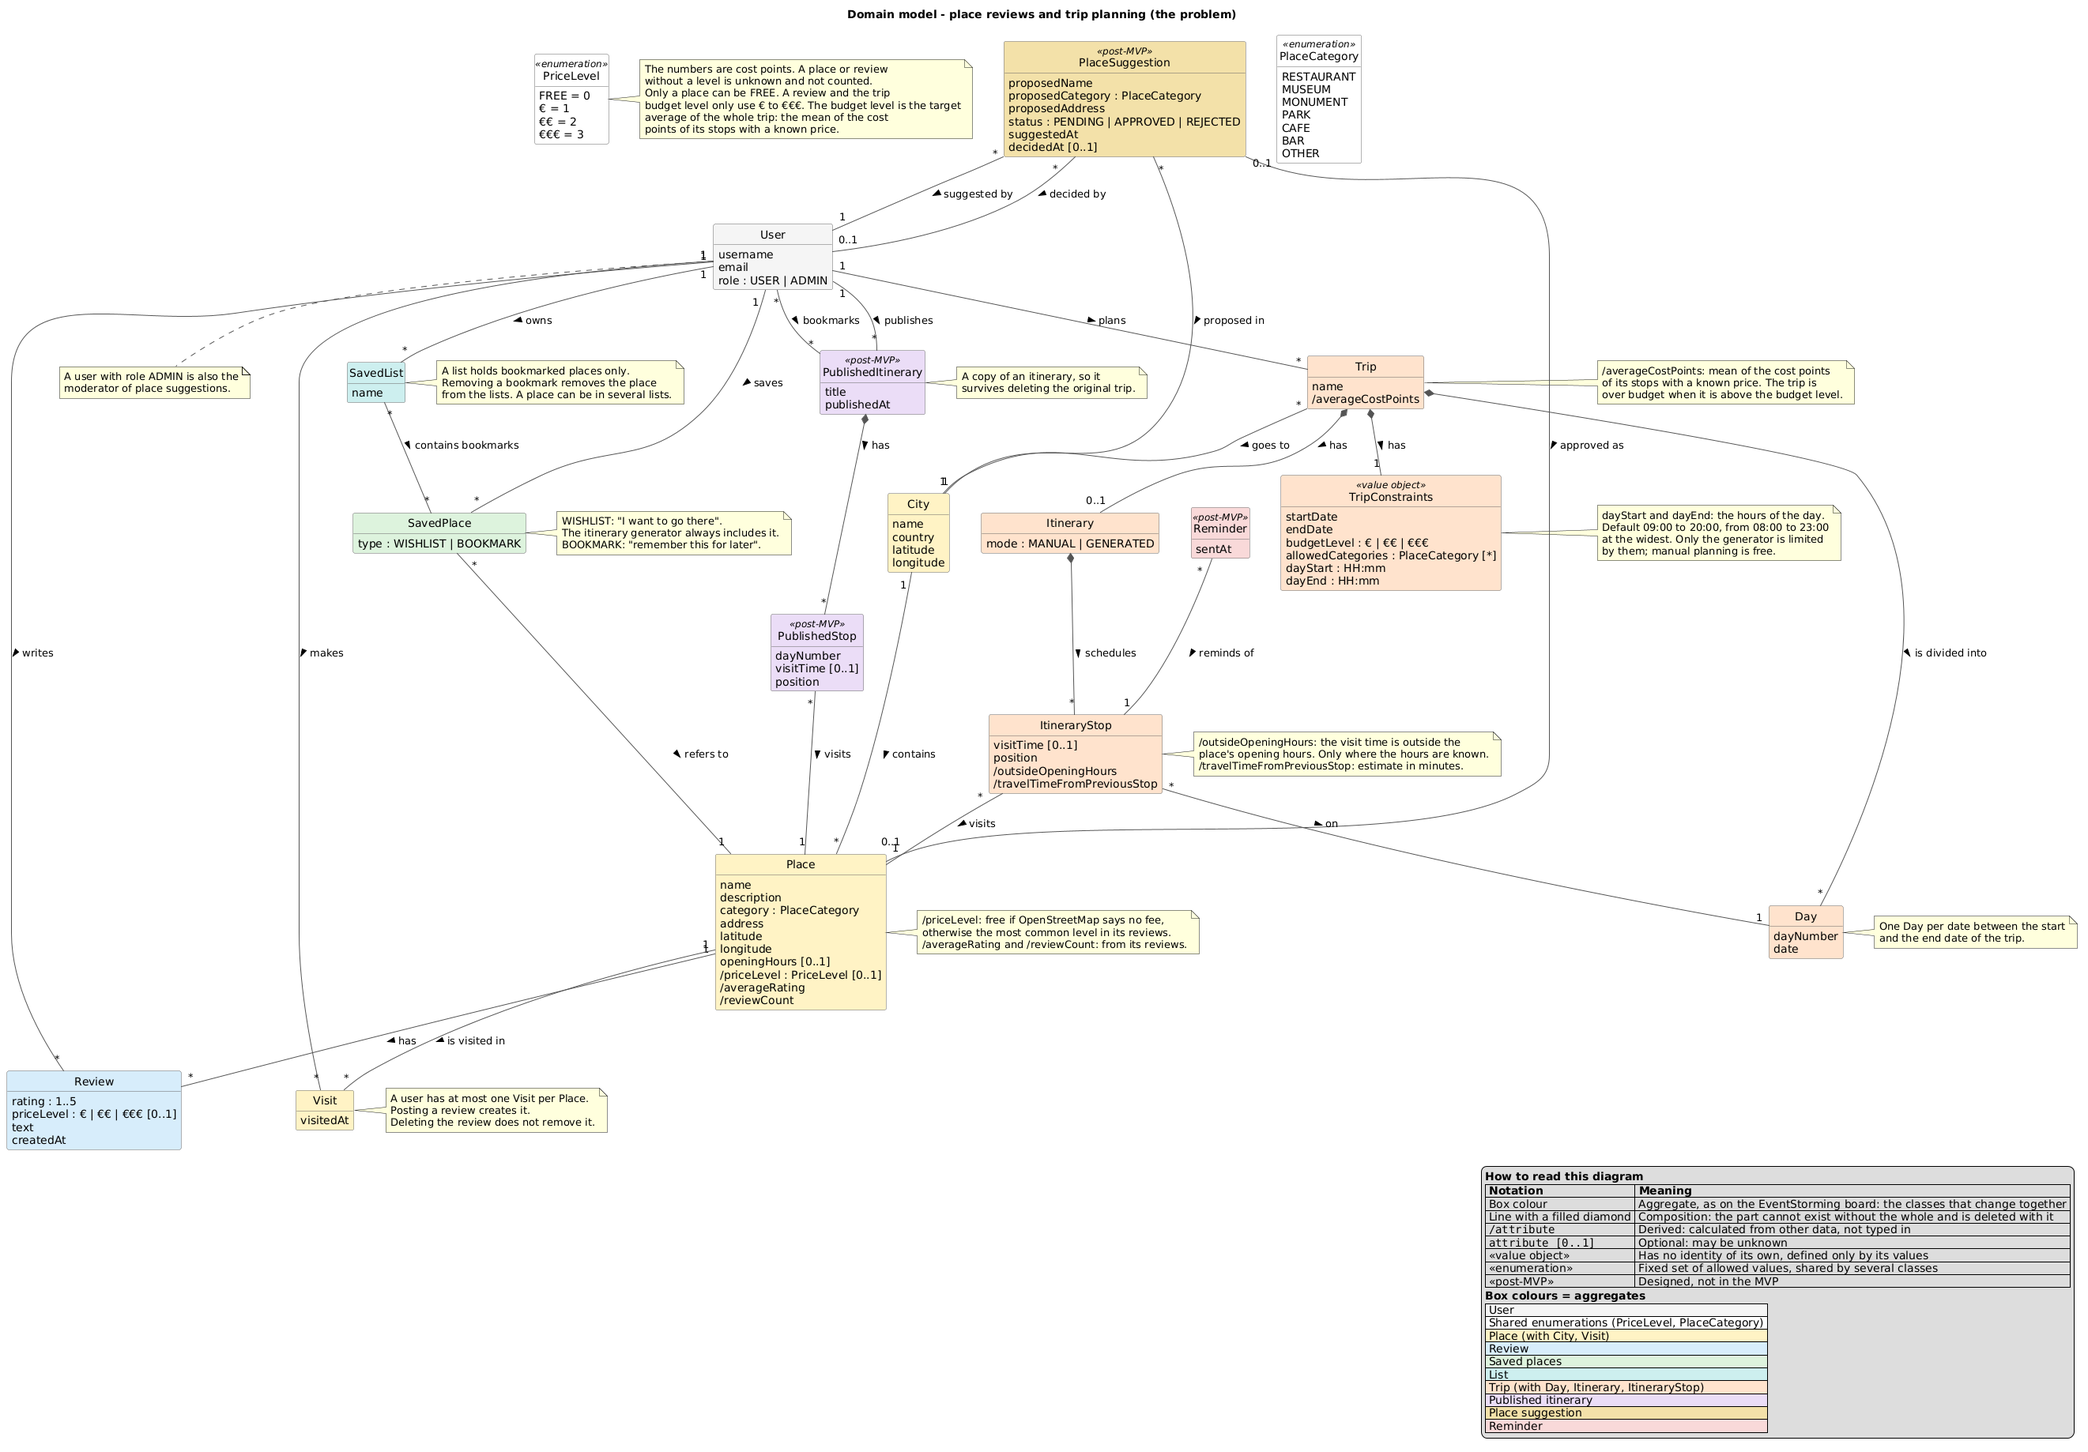
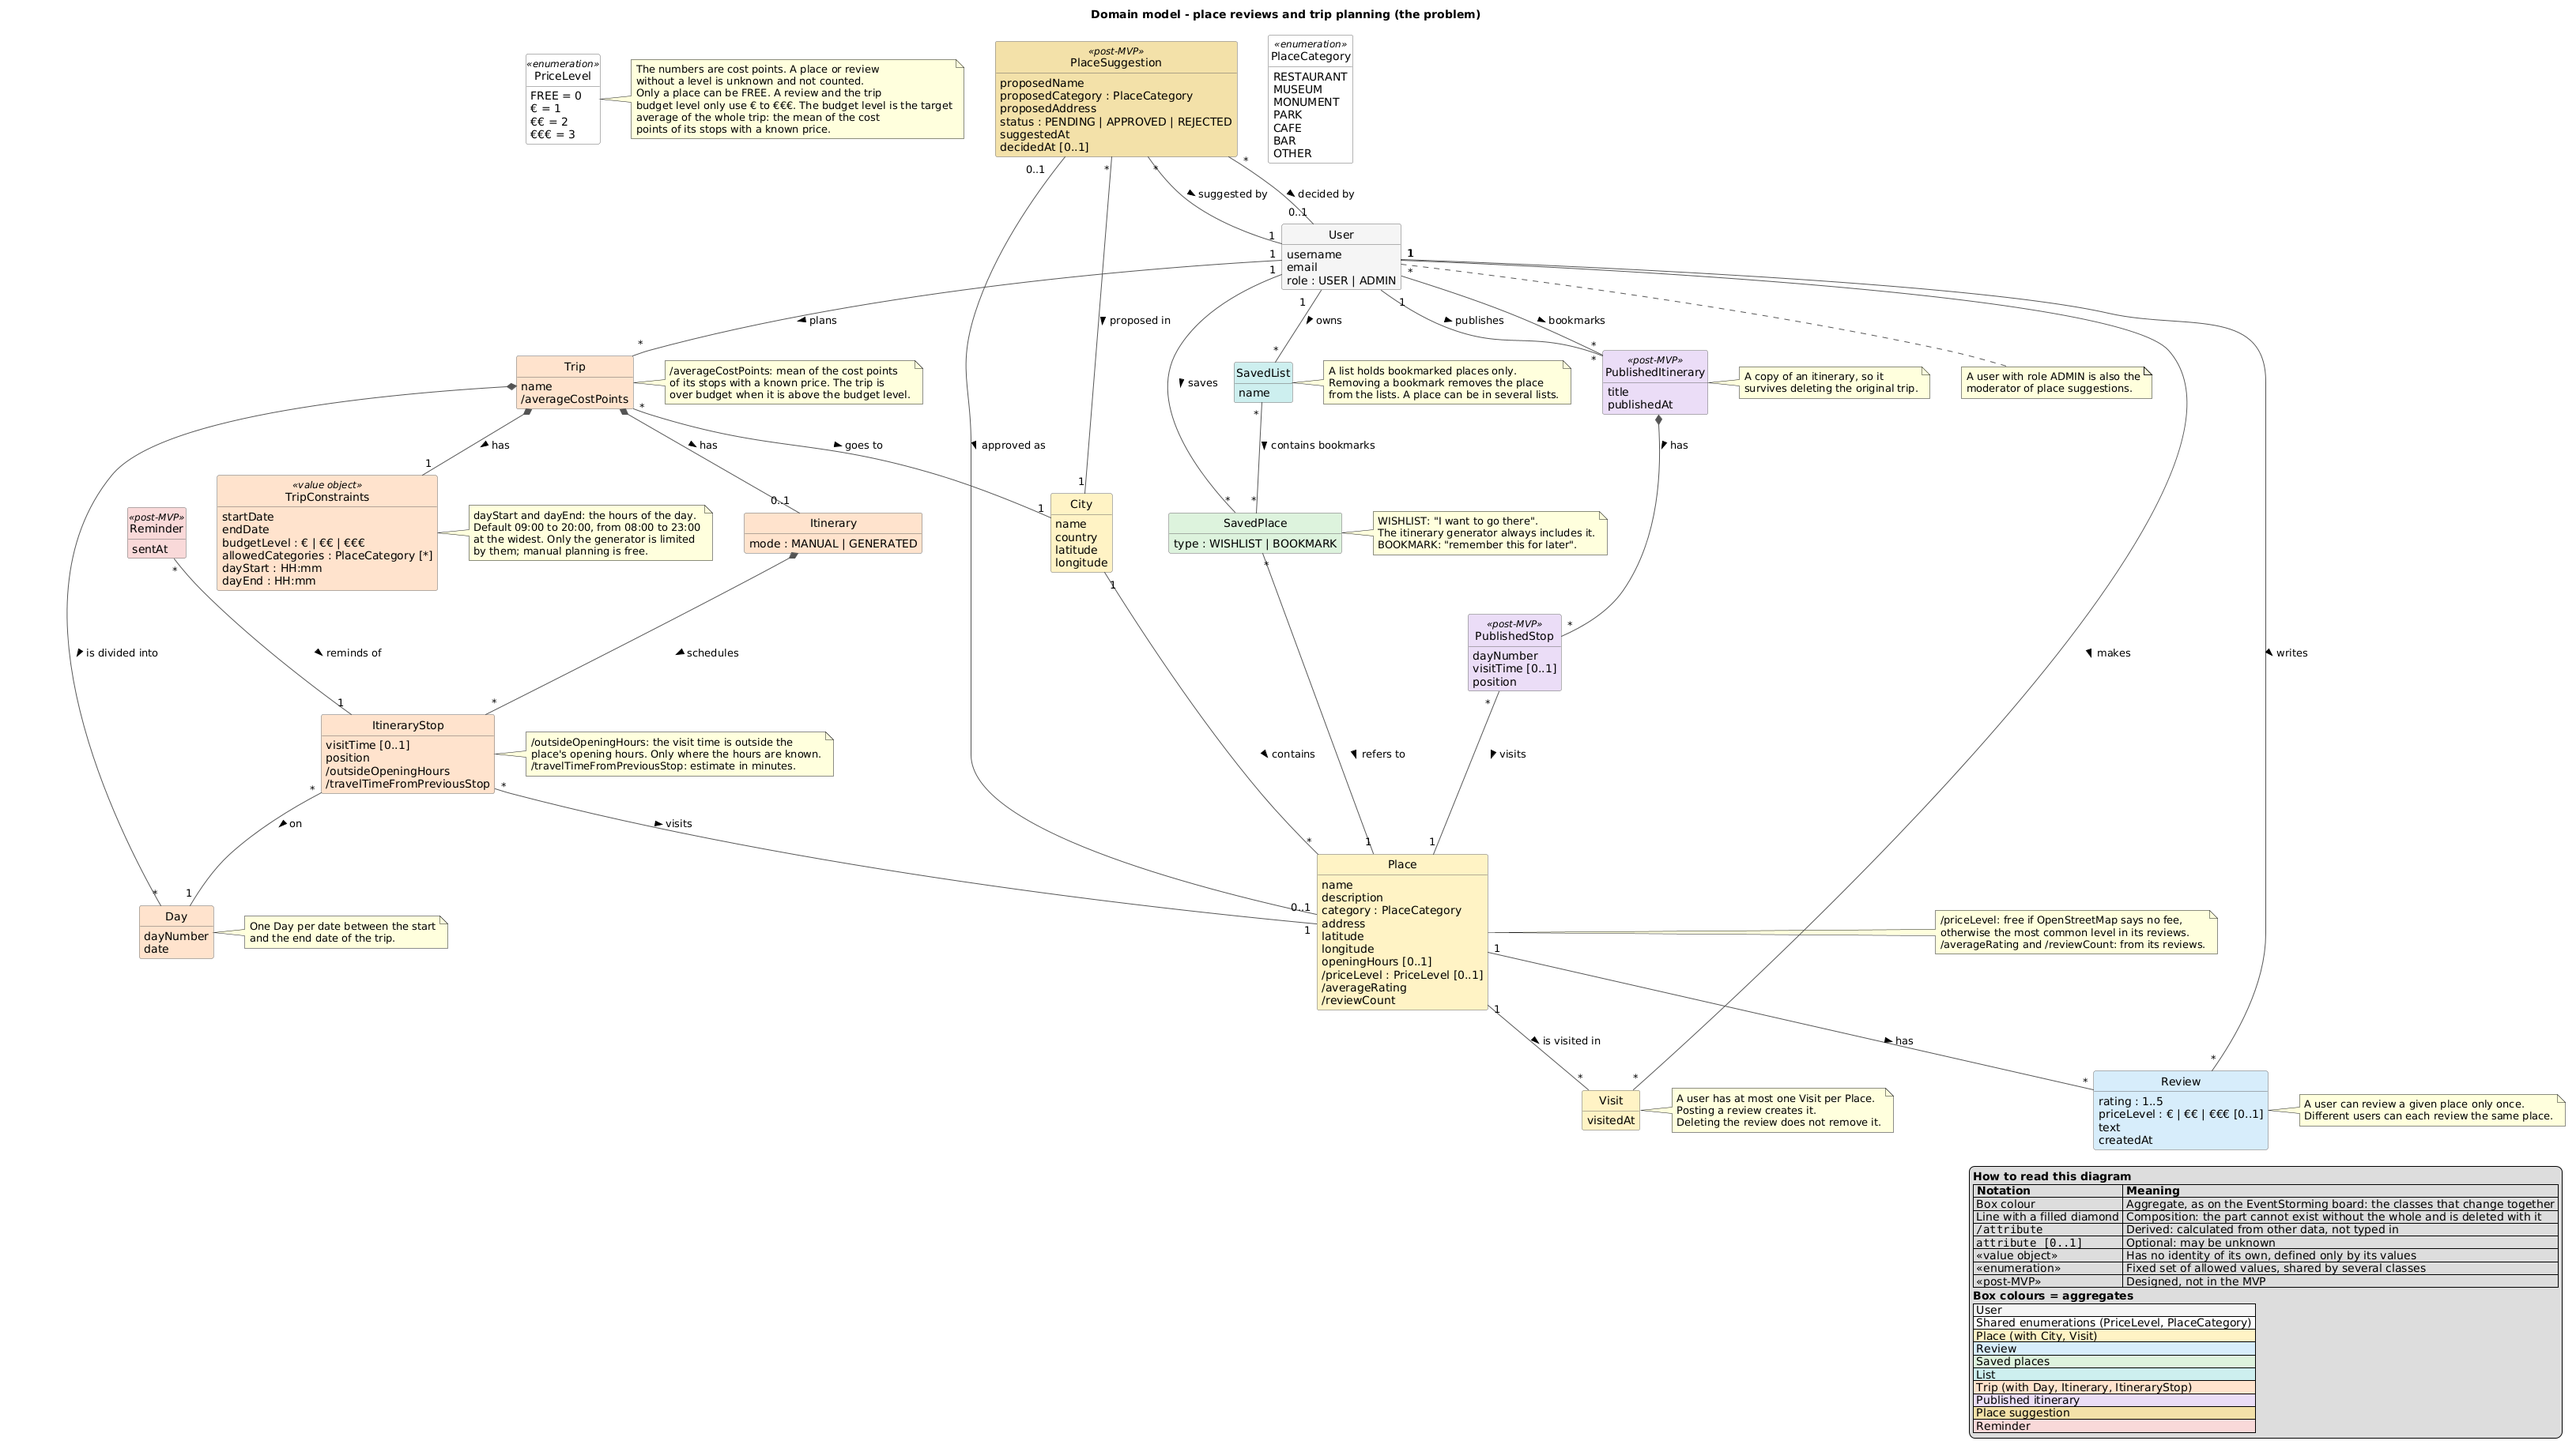
Write down the rule: a user reviews a given place only once
Glossary, design, mvp.md, the domain model and the stories now state it. The prototype seed breaks the rule (2 demo users, up to 9 reviews on a place), so the stories note that the demo data must be fixed before the unique constraint can be added.

diff --git a/docs/user-stories.md b/docs/user-stories.md
@@ -217,6 +217,7 @@ This file is the draft that the GitHub issues are created from. Once the issues 
 
 - Each place's `averageRating`, `reviewCount` and `priceLevel` are calculated from its reviews with the same functions the app uses.
 - Seed passwords are hashed with the same helper as registration.
+- No user reviews the same place twice (the rule of US-C1-01), so the seed needs at least as many demo users as the most-reviewed place has reviews.
 
 **Out of scope**
 
@@ -226,12 +227,16 @@ This file is the draft that the GitHub issues are created from. Once the issues 
 
 - The demo password goes in the README, not in the code of the app.
 - Every city needs enough places and reviews to rank well ([mvp.md](mvp.md) section 4).
+- The prototype seed breaks the one-review rule: it has 2 demo users and up to 9 reviews on one place. On the dev database 20 user and place pairs have more than one review (70 reviews). The unique constraint of US-C1-01 cannot be added until the seed has enough demo users and the databases are cleaned. Prod was seeded with the same script, so it is very likely the same (not checked).
 - The prototype seed also creates Lisbon, Madrid, Rome and London (4 landmarks each, on dev and prod). Remove them from the seed and decide what to do with the rows already in the databases (prod needs the team's approval).
 
 **Issues**
 
 1. **Seed with real hashes and rerunnable** · covers AC3, AC4 · depends on: Registration API
 2. **Enough reviews for every city** · covers AC1, AC2 · depends on: Import the three MVP cities
+3. **Demo users and reviews without duplicates** · covers AC2 · depends on: none
+   - More demo users, each reviewing a place at most once
+   - Clean the existing duplicate reviews on dev and prod (prod needs the team's approval), then recalculate the ratings
 
 ## B3 City search and filters
 
@@ -420,7 +425,7 @@ This file is the draft that the GitHub issues are created from. Once the issues 
 
 - Average rating = mean of all ratings, rounded to one decimal.
 - Place price level = most common price level in its reviews; ties go to the lower level.
-- One review per user and place.
+- A user can review a given place only once (to change an opinion the user edits the review). Different users can each review the same place.
 
 **Out of scope**
 
@@ -428,8 +433,8 @@ This file is the draft that the GitHub issues are created from. Once the issues 
 
 **Issues**
 
-1. **One review per user and place** · covers AC3 · depends on: Session and write-endpoint guard (US-A1-02)
-   - Migration for a unique constraint
+1. **One review per user and place** · covers AC3 · depends on: Session and write-endpoint guard (US-A1-02), Demo users and reviews without duplicates (US-B2-01)
+   - Migration for a unique constraint on user and place. It fails while the databases hold duplicate reviews, so the demo data must be fixed first (see the notes of US-B2-01)
 2. **Review form validation and visited marker** · covers AC1, AC2, AC4, AC5 · depends on: Session and write-endpoint guard (US-A1-02)
 
 ## C2 Edit and delete a review

diff --git a/docs/design.md b/docs/design.md
@@ -93,6 +93,8 @@ yellow (small) = actor, yellow (tall) = aggregate, pink = open issue, grey = not
   suggestion) are designed but not in the MVP.
 - Posting a review is the only way a place is marked as visited. Deleting the
   review does not unmark it.
+- A user can review a given place only once; to change an opinion they edit the
+  review. Different users can each review the same place.
 - Days follow the trip date range: _Days added_ and _Days removed_ are events of
   _Create trip_ and _Change trip constraints_, with no command of their own.
 - An itinerary is either generated by the system (_Generate itinerary_) or built by
@@ -152,7 +154,7 @@ Terms are defined in the [glossary](GLOSSARY.md).
 | Place                          | Place               | name, description, category, address, latitude, longitude, openingHours (optional), /priceLevel, /averageRating, /reviewCount | belongs to a City, has Reviews and Visits                       |
 | Visit                          | Place               | visitedAt                                                                                    | links a User to a Place (at most one per pair); created when the user posts a review      |
 | PlaceSuggestion (post-MVP)     | Place suggestion    | proposedName, proposedCategory, proposedAddress, status, suggestedAt, decidedAt (optional)   | suggested by a User, decided by a moderator (ADMIN), proposed in a City, approved as a Place |
-| Review                         | Review              | rating (1..5), priceLevel (optional: €, €€ or €€€), text, createdAt                                        | written by a User about a Place                                                           |
+| Review                         | Review              | rating (1..5), priceLevel (optional: €, €€ or €€€), text, createdAt                                        | written by a User about a Place (a user reviews a given place at most once)               |
 | SavedPlace                     | Saved places        | type (WISHLIST / BOOKMARK)                                                                   | a User saves a Place                                                                      |
 | SavedList                      | List                | name                                                                                         | owned by a User, contains bookmarked SavedPlaces                                          |
 | Trip                           | Trip                | name, /averageCostPoints                                                                     | owned by a User, goes to a City, has TripConstraints, Days and an Itinerary               |

diff --git a/docs/mvp.md b/docs/mvp.md
@@ -39,7 +39,7 @@ iteration: the order is decided at each sprint planning.
 
 | ID | Feature | The user can… |
 |---|---|---|
-| C1 | Post a review | Rate 1 to 5, write text, say how expensive it was (€ / €€ / €€€). The place is marked as visited and its rating updates |
+| C1 | Post a review | Rate 1 to 5, write text, say how expensive it was (€ / €€ / €€€). A user can review a place only once (edit it to change it). The place is marked as visited and its rating updates |
 | C2 | Edit and delete a review | Change or remove own review; rating and top-rated update |
 | C3 | Visited places | See a list of the places they have visited |
 

diff --git a/docs/GLOSSARY.md b/docs/GLOSSARY.md
@@ -43,6 +43,7 @@ This glossary defines the canonical ubiquitous language for the place review and
 - **Lifecycle & Rules:**
   - Posting a review triggers two policies on `Place`: **Mark place visited** and **Recalculate rating and price level**.
   - Editing or deleting a review triggers **Recalculate rating and price level**.
+  - **A user can review a given place only once.** To change an opinion the user edits the review, and after deleting it can post a new one. Different users can each review the same place.
   - Deleting a review does **not** delete the corresponding `Visit`.
 
 ### Visit
